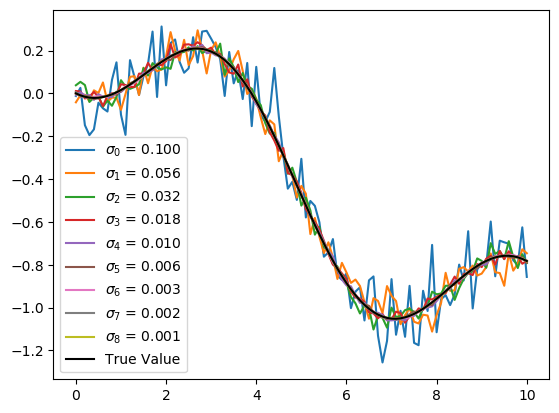
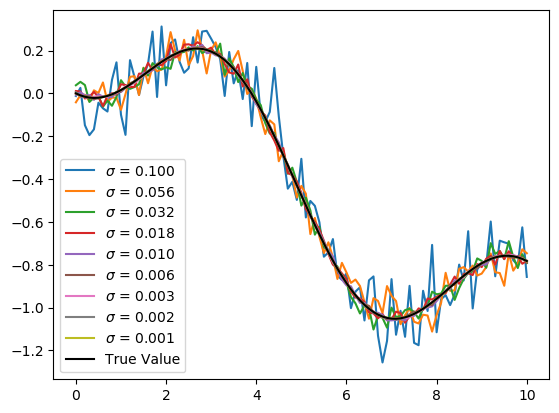
code ready

Changed region(s): [[0.1216, 0.3487, 0.3345, 0.8426], [0.1216, 0.8136, 0.1521, 0.8426], [0.1216, 0.3487, 0.1521, 0.3777]]

diff --git a/week3/EE19B123_assign3.py b/week3/EE19B123_assign3.py
@@ -8,9 +8,12 @@ import matplotlib.pyplot as plt
 import seaborn as sns
 import numpy as np 
 from pylab import errorbar
+import pylab
 import pandas as pd 
 from scipy import linalg
 import scipy.special as sp
+import os
+os.chdir("/home/tanay/Documents/sem4/EE2703/week3/")
 
 #f(t) = 1.05J2(t) - 0.105t + n(t)
 def plot_function(x,y,sigma,path):
@@ -25,14 +28,13 @@ def plot_function(x,y,sigma,path):
 
     #sigma = np.logspace(-1,-3,9)
     for i, error in enumerate(sigma):
-        plt.plot(x, y['example{}'.format(i)], label ='$\sigma_{}$ = %.3f'.format(i+1)%error)
+        plt.plot(x, y[:,i], label ='$\sigma$ = %.3f'%error)
 
     true = g(x,1.05,-0.105)
     plt.plot(x,true, color ='k', label ='True Value')
     plt.legend()
-
-    
     plt.savefig(path+'.png',bbox_inches='tight')
+    print("file saved")
     plt.clf()
 
 
@@ -41,12 +43,13 @@ def g(t,A,B):
 
 
 def errorsplot(t, data, sigma,path):
-    errorbar(t[::5],data[::5,1],sigma[1],fmt='ro',label = "Error bar")
-    plt.xlabel("t",size=20)
-    plt.title("Q5:Data points for $\sigma$ = 0.1 along with exact function")
+    errorbar(t[::5],data[::5,1],sigma[0],fmt='ro',label = "Error bar")
+    plt.xlabel("t")
+    plt.title("Data points for $\sigma$ = 0.1 along with exact function")
     plt.plot(t,g(t,1.05,-0.105),label = "True value")
     plt.legend()
     plt.savefig(path+'.png',bbox_inches='tight')
+    print('file saved')
     plt.clf()
 
 
@@ -56,101 +59,100 @@ def fillM(x):
     M[:,1] = x
     return M
     
-def generateAB(i,j,step1 = 0.1,step2 = 0.01,Amin=0,Bmin = -0.2):
-    p = np.zeros((2,1))
-    p[0][0] = Amin +  step1 * i
-    p[1][0] = Bmin +step2 * j
-    return p
-
-
-def find_error_matrix(x,y,col):
-
-    yt = np.reshape(y[:,col],(101,1))
-    error = np.zeros((20,20))
+def check(x):
+    p = np.array([1.05,-0.105])
     M = fillM(x)
-    for i in range(20):
-        for j in range(20):
-            error[i,j] = np.square( np.matmul(M,generateAB(i,j)) - yt).mean()
+    pred = np.matmul(M,p)
+    true = np.array(g(x,1.05,-0.105))
+
+    return np.array_equal(pred, true)
+
+def ls_estimate(M,p):
+    try:
+        return linalg.lstsq(M,p)[0]
+    except:
+        print("could not esitmated model params for a case")
+        exit()
+
+
+def errorMatrix(x,y,col):
+
+    yt = y[:,col]
+    error = np.empty((21,21))
+    A = np.linspace(0,2,21)
+    B = np.linspace(-0.2,0,21)
+    for i in range(21):
+        for j in range(21):
+            error[i,j] = np.mean(np.square(g(x,A[i],B[j]) - yt))
     return error
 
 def contourplot(x,y, path):
-    a = np.linspace(0,2,20)
-    b = np.linspace(-0.2,0,20)
-    X, Y = np.meshgrid(a,b)
-    error = find_error_matrix(x,y,0)
-    CS = plt.contour(X,Y,error,np.linspace(0.025, 0.5 ,20))
-    plt.clabel(CS,CS.levels[:4], inline=1, fontsize=10)
-    plt.title('Contour Plot of error')
-    plt.xlabel(r'$A$',size=10)
-    plt.ylabel(r'$B$',size=10)
+    a = np.linspace(0,2,21)
+    b = np.linspace(-0.2,0,21)
+    A, B = np.meshgrid(a,b)
+    error = errorMatrix(x,y,0)
+    minimum = np.argmin(error)
+    annot = np.unravel_index(minimum,error.shape)
+    CS = pylab.contour(A,B,error,np.linspace(0.025, 0.5 ,20))
+    plt.clabel(CS,CS.levels[:4], inline=1, fontsize=8)
+    pylab.annotate('(%0.3f,%0.3f)'%(a[annot[0]],b[annot[1]]), (a[annot[0]],b[annot[1]]))
+    plt.title('Contour Plot')
+    plt.xlabel('A')
+    plt.ylabel('B')
     plt.savefig(path+'.png',bbox_inches='tight')
+    print("file saved")
+    plt.clf()
+
+def linearplot(sigma, Aerr, Berr, path):
+    pylab.plot(sigma,Aerr,'bo',label='Aerr')
+    pylab.plot(sigma,Berr,'ro',label='Berr')
+    plt.xlabel("Noise standard deviation ->")
+    plt.ylabel('MS error')
+    plt.title('Q10: Variation of error with noise')
+    plt.savefig(path+'.png',bbox_inches='tight')
+    print("file saved")
     plt.clf()
 
 
-def find(M,b):
-    return linalg.lstsq(M,b)
-
-def error_pred(pred,true):
-    return np.square(pred[0]-true[0]),np.square(pred[1]-true[1])
-
+def logplot(sigma , Aerr, Berr, path):
+    pylab.loglog(sigma,Aerr,'ro')
+    pylab.stem(sigma,Aerr,'-ro', use_line_collection=True)
+    pylab.loglog(sigma,Berr,'bo')
+    pylab.stem(sigma,(Berr),'-bo', use_line_collection=True)
+    pylab.xlabel(r'$\sigma_{n}\rightarrow$')
+    pylab.ylabel(r'MSerror$\rightarrow$')
+    plt.savefig(path+'.png',bbox_inches='tight')
+    print("file saved")
+    plt.clf()
 
 
 
 if __name__ =='__main__':
 
-    data = pd.read_csv('/home/tanay/Documents/sem4/EE2703/week3/fitting.dat', delimiter=" ", names =['time']+['example{}'.format(i) for i in range(9)])
-    #plot_function(data['time'], data.loc[:,'example0':'example8'], np.logspace(-1,-3,9),'/home/tanay/Documents/sem4/EE2703/week3/figure0')
-    #errorsplot(data['time'].values, data.loc[:,'example0':'example8'].values, np.logspace(-1,-3,9),'/home/tanay/Documents/sem4/EE2703/week3/figure1')
+    data = np.loadtxt('fitting.dat',dtype=float)
+    x  = np.array(data[:,0])
+    y = np.asarray(data)[:,1:]
+    plot_function(x,y, np.logspace(-1,-3,9),'figure0')
+    errorsplot(x,y, np.logspace(-1,-3,9),'figure1')
 
-    #A,B,e = mse(data['time'].values)
-    contourplot(data['time'].values, data.loc[:,'example0':'example8'].values,'/home/tanay/Documents/sem4/EE2703/week3/figure2')
-    AB = np.zeros((2,1))
-    x = data['time'].values
-    y = data.loc[:,'example0':'example8'].values
-    AB[0][0] = 1.05
-    AB[1][0] = -0.105
-    scl=np.logspace(-1,-3,9)
-    error_a = np.zeros(9)
-    error_b = np.zeros(9)
-    error_c = np.zeros(9)
+    contourplot(x,y,'figure2')
+    estimates =[]
+    M = fillM(x)
     for i in range(9):
-        prediction,error,_,_ = find(fillM(x),y[:,i])
-        error_a[i],error_b[i] = error_pred(prediction,AB)
-        error_c[i] = error
+        estimates.append(ls_estimate(M,y[:,i]))
+
+    e = np.asarray(estimates)
+
+    A_error = np.square(e[:,0] -1.05)
+    B_error = np.square(e[:,1] + 0.105)
+
+    sigma = np.logspace(-1,-3,9)
 
 
-    plt.plot(scl,error_a,'r--')
-    plt.scatter(scl,error_a)
-    plt.plot(scl,error_b, 'b--')
-    plt.scatter(scl,error_b)
-    plt.legend(["A","B"])
-    plt.title("Variation Of error with Noise")
-    plt.xlabel('$\sigma_n$',size=10)
-    plt.ylabel('MS Error',size=10)
-    path = '/home/tanay/Documents/sem4/EE2703/week3/figure3'
-    plt.savefig(path+'.png',bbox_inches='tight')
-    plt.clf()
+    linearplot(sigma, A_error, B_error, 'linearplot')
 
-    plt.loglog(scl,error_a,'r--',basex = 10)
-    plt.scatter(scl,error_a)
-    plt.loglog(scl,error_b, 'b--',basex = 10)
-    plt.scatter(scl,error_b)
-    plt.legend(["A","B"])
-    plt.title("Variation Of error with Noise on loglog scale")
-    plt.xlabel('$\sigma_n$',size=10)
-    plt.ylabel('MS Error',size=10)
-    path = '/home/tanay/Documents/sem4/EE2703/week3/figure4'
-    plt.savefig(path+'.png',bbox_inches='tight')
-    plt.clf()
-
-    plt.loglog(scl,error_c, 'b--',basex = 10)
-    plt.scatter(scl,error_c)
-    plt.title("Variation Of error returned by Lstsq with Noise on loglog scale")
-    plt.xlabel('$\sigma_n$',size=10)
-    plt.ylabel('MS Error',size=10)
-    path = '/home/tanay/Documents/sem4/EE2703/week3/figure5'
-    plt.savefig(path+'.png',bbox_inches='tight')
-    plt.clf()
+    logplot(sigma, A_error, B_error, 'logplot')
+    
 
 
 
